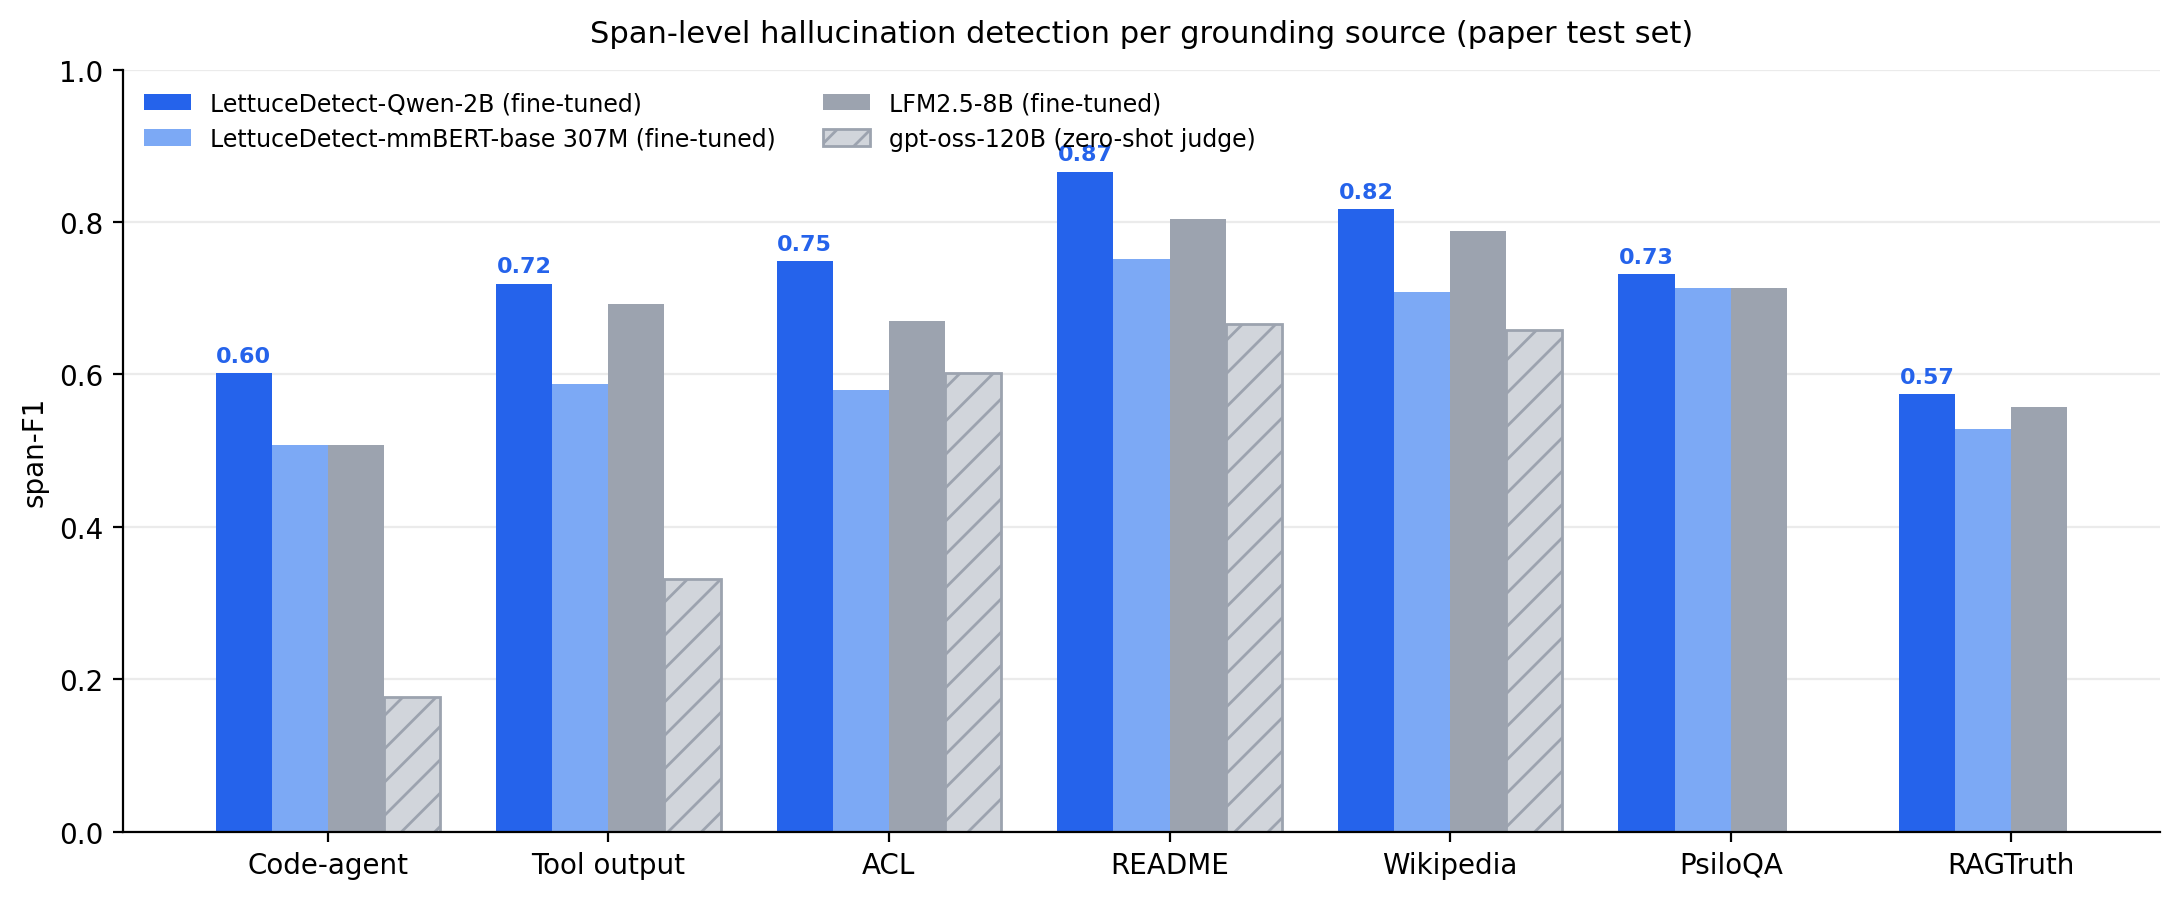
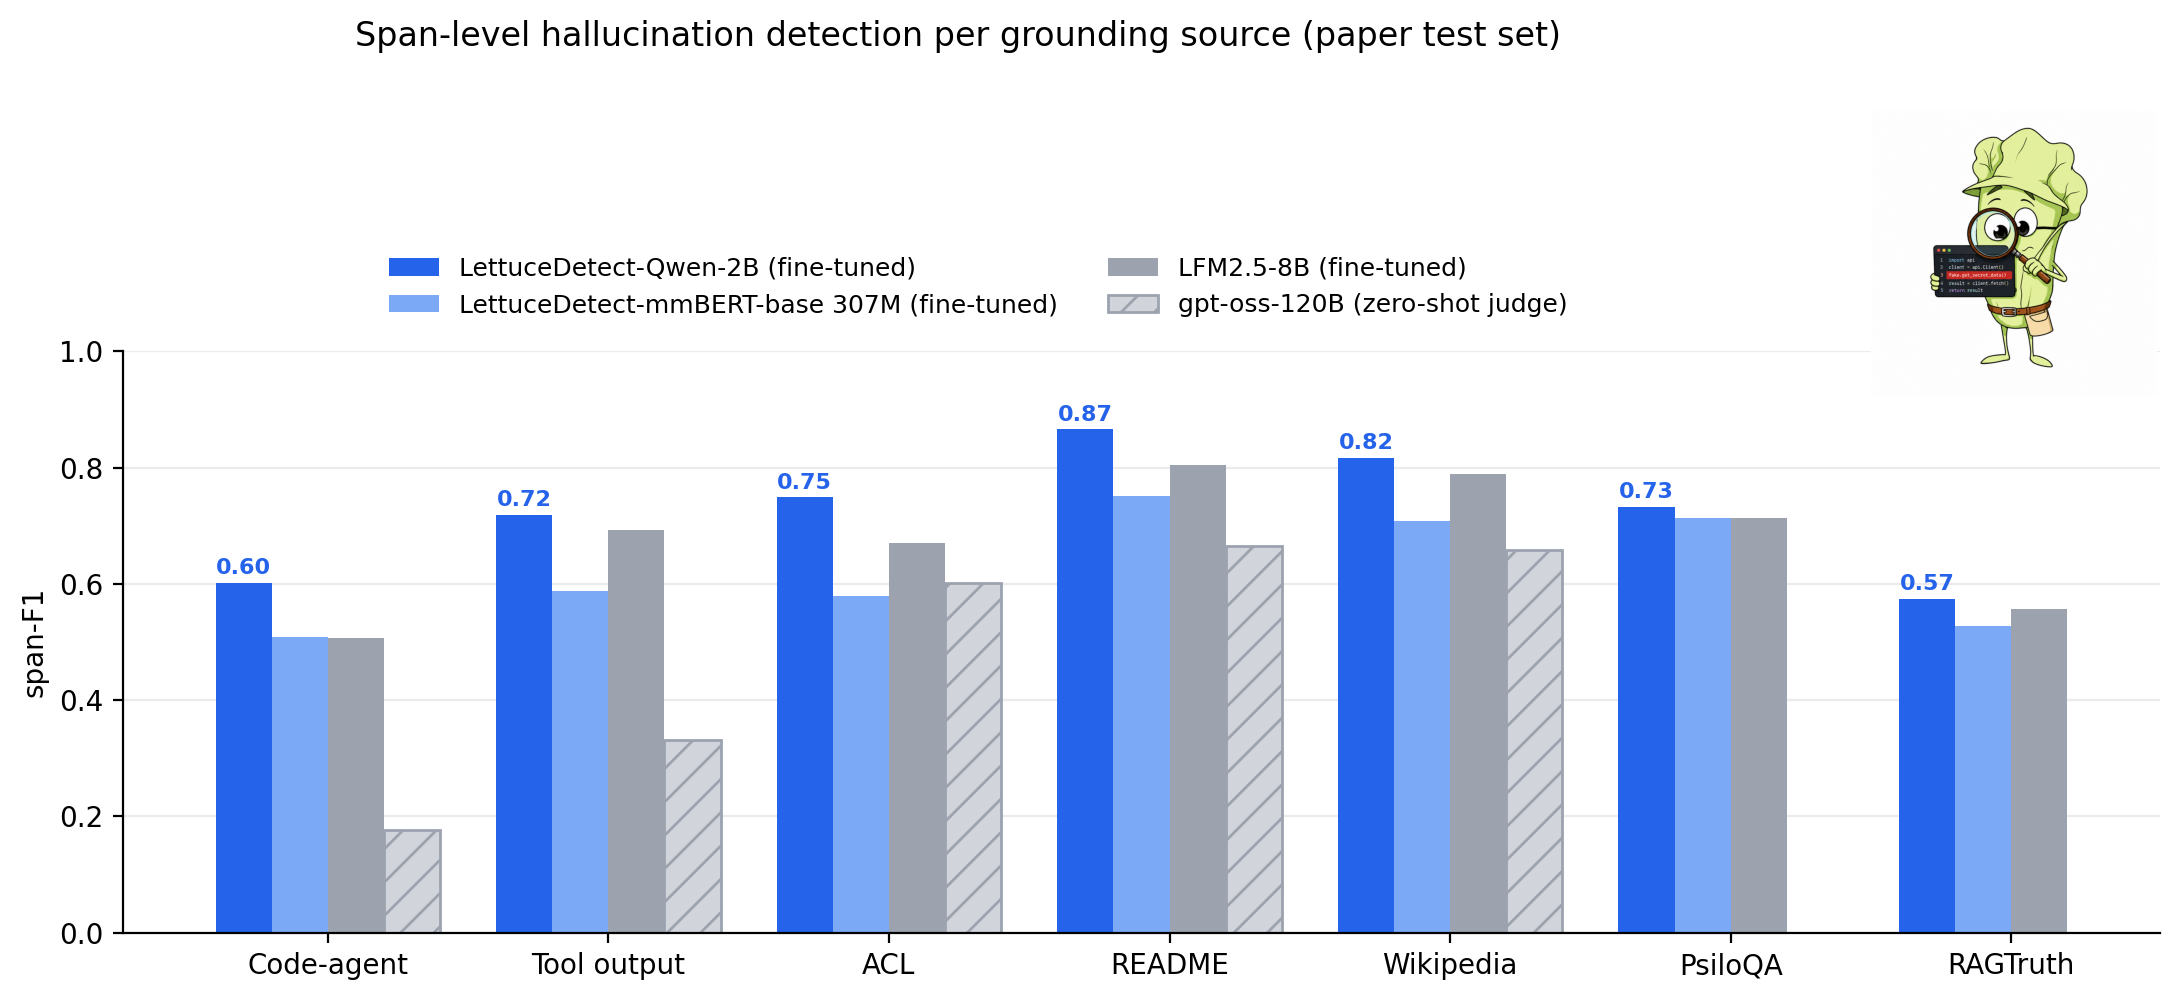
[Docs] blog: promote established-benchmark results to a table, fix chart legend overlap, add mascot

diff --git a/website/blog/2026-08-05-lettucedetect-v2-generative-hallucination-detection.md b/website/blog/2026-08-05-lettucedetect-v2-generative-hallucination-detection.md
@@ -67,7 +67,16 @@ Evaluation is character-overlap span precision/recall/F1, example-level F1 (an a
 
 The code-agent column explains why the benchmark had to exist. Zero-shot judges — including 550B-class models — over-flag correct newly-written code as "unsupported" because it is not literally in the context: with a generic prompt, Nemotron-3-Ultra marks clean patch code as fabricated, and a task-aware prompt only lifts its precision from 0.11 to 0.13. Prior span detectors fare no better there (LettuceDetect-large reaches 0.17). Detecting structured-input hallucinations is a learned skill, not a bigger judge.
 
-Typed detection is harder than binary: the generative detector reaches 0.585 category-gated span-F1 (0.468 subcategory-gated) against its 0.689 binary score, and it beats the encoder-plus-taxonomy-head cascade end to end (0.585 vs 0.461 category-gated). On established natural-language benchmarks the 2B model stays competitive rather than specialized: **81.8 RAGTruth example-F1** (close to RAG-HAT's 83.9) and the best reported English PsiloQA IoU (**0.724**), with multilingual coverage from PsiloQA's 14 languages.
+Typed detection is harder than binary: the generative detector reaches 0.585 category-gated span-F1 (0.468 subcategory-gated) against its 0.689 binary score, and it beats the encoder-plus-taxonomy-head cascade end to end (0.585 vs 0.461 category-gated).
+
+Specializing on structured inputs did not cost the model its natural-language performance. On the established benchmarks:
+
+| Benchmark | Metric | LettuceDetect-Qwen-2B | Reference |
+|-----------|--------|-----------------------|-----------|
+| PsiloQA (English) | span IoU | **0.724** | best reported result |
+| RAGTruth | example-F1 | **81.8** | RAG-HAT: 83.9 |
+
+with multilingual coverage from PsiloQA's 14 languages carried through training.
 
 ## The integration: a detector that is just another vLLM model
 
